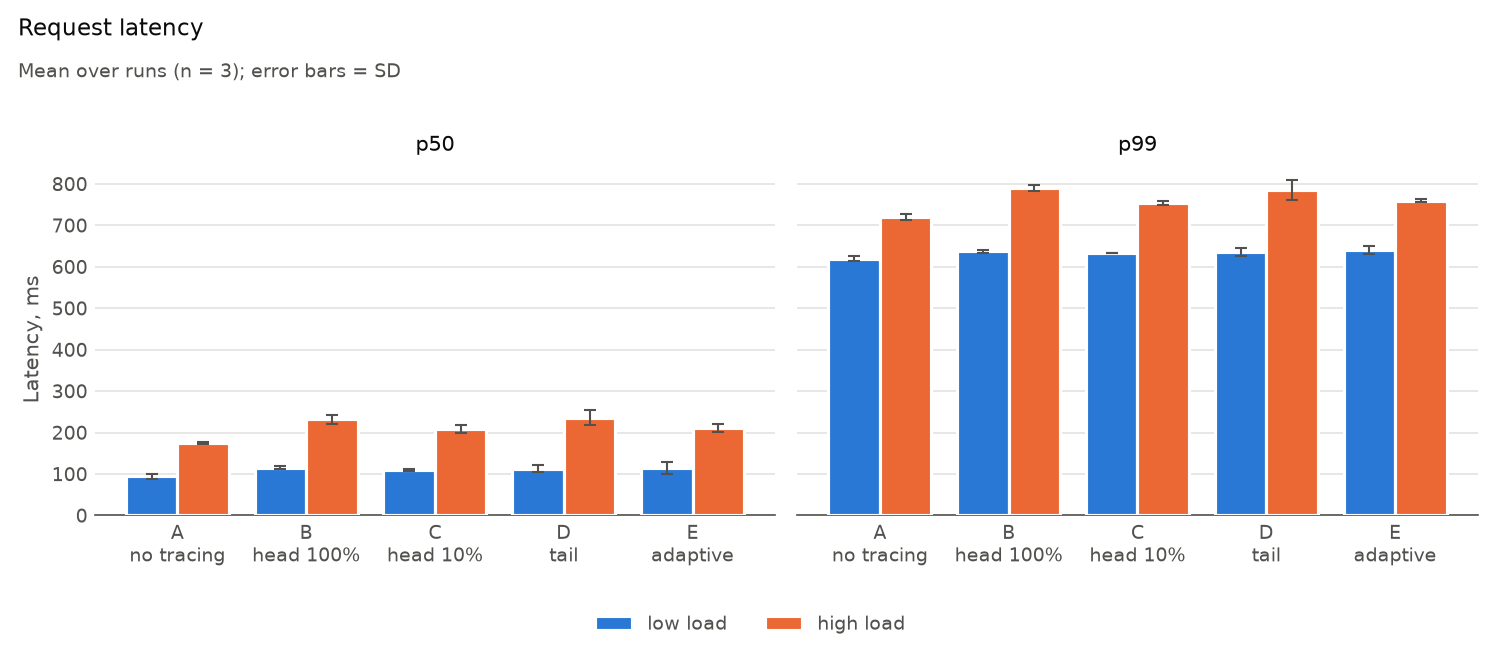
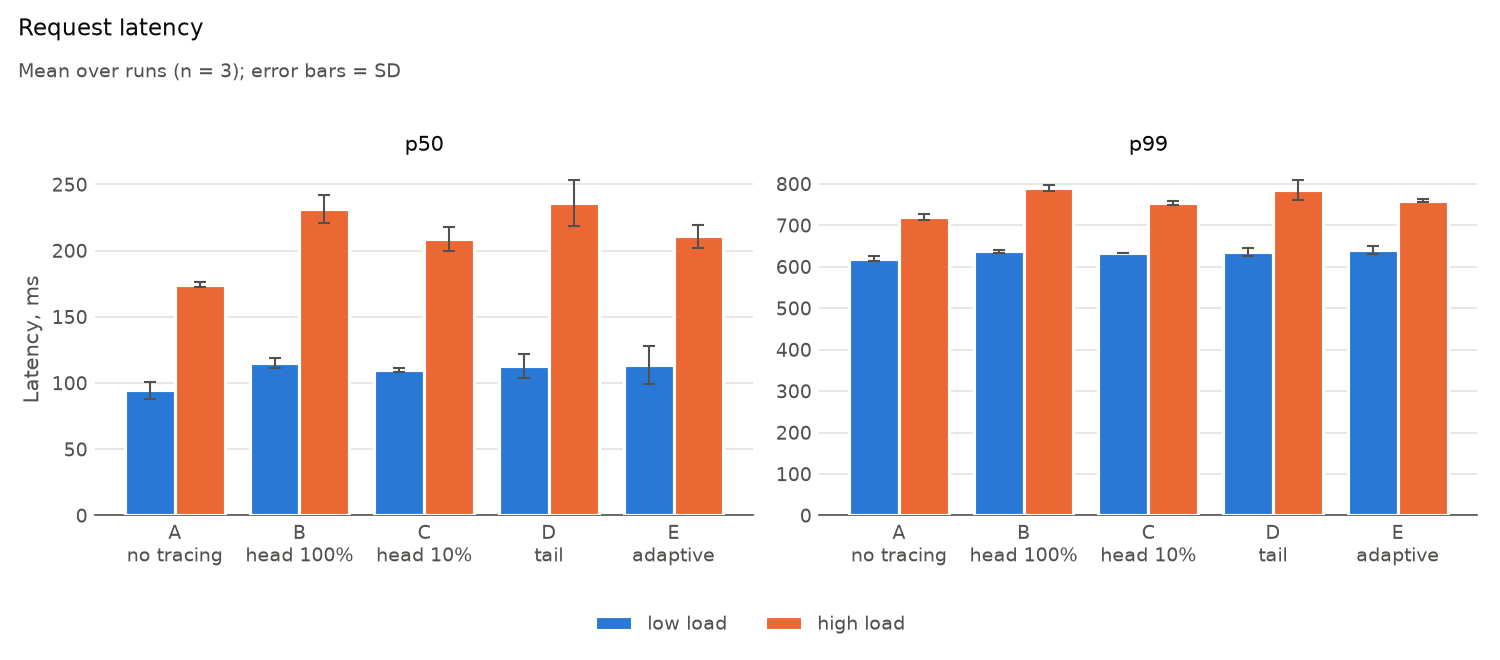
Update latency chart to use separate y-axes

diff --git a/analysis/analyze.py b/analysis/analyze.py
@@ -124,6 +124,9 @@ CHARTS = {
     "collector_memory": ["mem_collector_mb"],
     "traces_kept": ["errors_kept_pct", "slow_kept_pct"],
 }
+# Charts whose panels get their own y-axis: p99 is ~4x p50, so on a shared
+# axis the p50 differences between scenarios would be hard to see.
+OWN_Y_AXIS = {"latency"}
 
 # Reference categorical palette (dataviz skill), slots 1-2, light mode.
 LEVEL_COLORS = {"low": "#2a78d6", "high": "#eb6834"}
@@ -245,7 +248,8 @@ def tick_label(name: str) -> str:
 def bar_chart(agg: pd.DataFrame, chart: str, lang: str, path: Path) -> None:
     """Grouped bars: x = scenario, one bar per load level, error bars = SD.
 
-    Several panels share the y-axis unit. Layout is fixed in inches: a header
+    Several panels share the y-axis unit, and the axis itself unless the chart
+    is in OWN_Y_AXIS. Layout is fixed in inches: a header
     band for title + subtitle, a footer band for the legend, axes in between,
     so the legend never overlaps the title, the ticks or a bar.
     """
@@ -261,7 +265,8 @@ def bar_chart(agg: pd.DataFrame, chart: str, lang: str, path: Path) -> None:
 
     width_in = 4.4 * len(metrics) + 1.2
     height_in, header_in, footer_in = 4.4, 0.75, 0.45
-    fig, axes = plt.subplots(1, len(metrics), figsize=(width_in, height_in), sharey=True, squeeze=False)
+    shared_y = chart not in OWN_Y_AXIS
+    fig, axes = plt.subplots(1, len(metrics), figsize=(width_in, height_in), sharey=shared_y, squeeze=False)
     for ax, metric in zip(axes[0], metrics):
         for i, level in enumerate(levels):
             means = [agg[(metric, "mean")].get((s, level), np.nan) for s in scenarios]
@@ -285,8 +290,9 @@ def bar_chart(agg: pd.DataFrame, chart: str, lang: str, path: Path) -> None:
         ax.spines[["top", "right", "left"]].set_visible(False)
         ax.spines["bottom"].set_color(TEXT_MUTED)
         ax.tick_params(colors=TEXT_MUTED, length=0, labelsize=9)
-    # After all panels are drawn: the shared y-axis must fit every panel.
-    axes[0][0].set_ylim(bottom=0)
+    # After all panels are drawn: a shared y-axis must fit every panel.
+    for ax in axes[0] if not shared_y else axes[0][:1]:
+        ax.set_ylim(bottom=0)
     axes[0][0].set_ylabel(ylabel, color=TEXT_MUTED)
 
     pad_x = 0.12 / width_in
